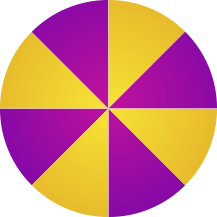
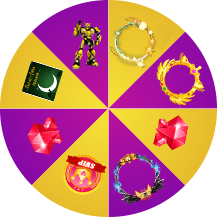
bug resolved

diff --git a/src/styles/talent-wheel.scss b/src/styles/talent-wheel.scss
@@ -112,7 +112,7 @@
       .info {
         z-index: 1;
         position: absolute;
-        top: 11vw;
+        top: 9vw;
         text-align: center;
         width: 100%;
         font-size: 3.5vw;
@@ -121,7 +121,7 @@
       .spin-wheel {
         width: 50vw;
         height: 50vw;
-        background-image: url("../assets/images/wheel/vip-wheel-outer.png");
+        background-image: url("../assets/images/wheel/lucky-wheel-outer-bg.png");
         background-size: 100% 100%;
         position: absolute;
         top: 17vw;
@@ -129,10 +129,17 @@
         z-index: 1;
 
         .lucky-wheel-img {
-            width: 39vw;
-            position: relative;
-            top: 6vw;
-            left: 6vw;
+          width: 44vw;
+          position: relative;
+          top: 3vw;
+          left: 3vw;
+        }
+        .top{
+          z-index: 8;
+          position: absolute;
+          left: 22vw;
+          width: 6vw;
+          top: -3vw;
         }
       }
       .bottom {
@@ -144,50 +151,57 @@
     }
 
     .vip-game {
-        width: 79vw;
-        height: 121vw;
-        background-image: url("../assets/images/wheel/vip-wheel-inner-bg.png");
-        background-size: 100% 100%;
-  
+      width: 79vw;
+      height: 121vw;
+      background-image: url("../assets/images/wheel/vip-wheel-inner-bg.png");
+      background-size: 100% 100%;
+
+      position: absolute;
+      top: 12vw;
+      margin: 0 auto;
+      left: 0;
+      right: 0;
+
+      .info {
+        z-index: 1;
         position: absolute;
-        top: 12vw;
-        margin: 0 auto;
-        left: 0;
-        right: 0;
-  
-        .info {
-          z-index: 1;
-          position: absolute;
-          top: 18vw;
-          text-align: center;
-          width: 100%;
-          font-size: 3.5vw;
+        top: 18vw;
+        text-align: center;
+        width: 100%;
+        font-size: 3.5vw;
+      }
+
+      .spin-wheel {
+        width: 50vw;
+        height: 50vw;
+        background-image: url("../assets/images/wheel/vip-wheel-outer.png");
+        background-size: 100% 100%;
+        position: absolute;
+        top: 25vw;
+        left: 15vw;
+        z-index: 1;
+
+        .lucky-wheel-img {
+          width: 40vw;
+          position: relative;
+          top: 5vw;
+          left: 5vw;
         }
-  
-        .spin-wheel {
-          width: 50vw;
-          height: 50vw;
-          background-image: url("../assets/images/wheel/vip-wheel-outer.png");
-          background-size: 100% 100%;
+        .top{
+          z-index: 2;
           position: absolute;
-          top: 23vw;
-          left: 15vw;
-          z-index: 1;
-  
-          .lucky-wheel-img {
-            width: 40vw;
-    position: relative;
-    top: 5vw;
-    left: 5vw;
-          }
-        }
-        .vip-bottom {
-            position: absolute;
-            bottom: 37vw;
-            left: 27vw;
-            width: 26vw;
+          left: 22vw;
+          width: 5vw;
+          top: -3vw;
         }
       }
+      .vip-bottom {
+        position: absolute;
+        bottom: 37vw;
+        left: 27vw;
+        width: 26vw;
+      }
+    }
 
     .play-btns {
       position: absolute;
@@ -303,13 +317,11 @@
     left: 0;
     right: 0;
   }
-  .rights{
-    font-family: 'Acme-Regular';
+  .rights {
+    font-family: "Acme-Regular";
     text-align: center;
     color: white;
     margin-top: 3vw;
     font-size: 3.5vw;
   }
-
- 
 }

diff --git a/src/pages/TalentWheel/TalentWheel.jsx b/src/pages/TalentWheel/TalentWheel.jsx
@@ -1,13 +1,13 @@
 import React, { useState } from "react";
 import wheel from "../../assets/images/wheel/lucky-wheel-inner-bg.png";
 import vipWheel from "../../assets/images/wheel/vip-wheel-inner.png";
-import vipWheelIner from "../../assets/images/wheel/vip-wheel-inner-bg.png";
 import bottom from "../../assets/images/wheel/wheel-bottom.png";
 import vipBottom from "../../assets/images/wheel/vip-bottom.png";
 import "../../styles/talent-wheel.scss";
-import { tab } from "@testing-library/user-event/dist/tab";
 import { testData } from "../../testData";
 import LeaderBoardItem from "../../components/LeaderBoardItem";
+import vipTop from "../../assets/images/wheel/vip-top.png";
+import wheelTop from "../../assets/images/wheel/wheel-top.png";
 const TalentWheel = () => {
   const [isSeeMore, setIsSeeMore] = useState(false);
   const [tabs, setTabs] = useState({
@@ -74,6 +74,7 @@ const TalentWheel = () => {
           <div className="lucky-game">
             <p className="info">25K Beans = 1 Chance</p>
             <div className="spin-wheel">
+              <img src={wheelTop} />
               <img src={wheel} className="lucky-wheel-img" />
             </div>
             <img src={bottom} className="bottom" />
@@ -82,6 +83,7 @@ const TalentWheel = () => {
           <div className="vip-game">
             <p className="info">25K Beans = 1 Chance</p>
             <div className="spin-wheel">
+              <img src={vipTop} />
               <img src={vipWheel} className="lucky-wheel-img" />
             </div>
             <img src={vipBottom} className="vip-bottom" />

diff --git a/src/styles/leader-board-item.scss b/src/styles/leader-board-item.scss
@@ -56,9 +56,9 @@
     justify-content: center;
     align-items: center;
     gap: 1vw;
-    .exta-icon{
+    .extra-icon{
       img{
-        display: inline-block;
+        width: 6vw;
       }
     }
     .game-score{
